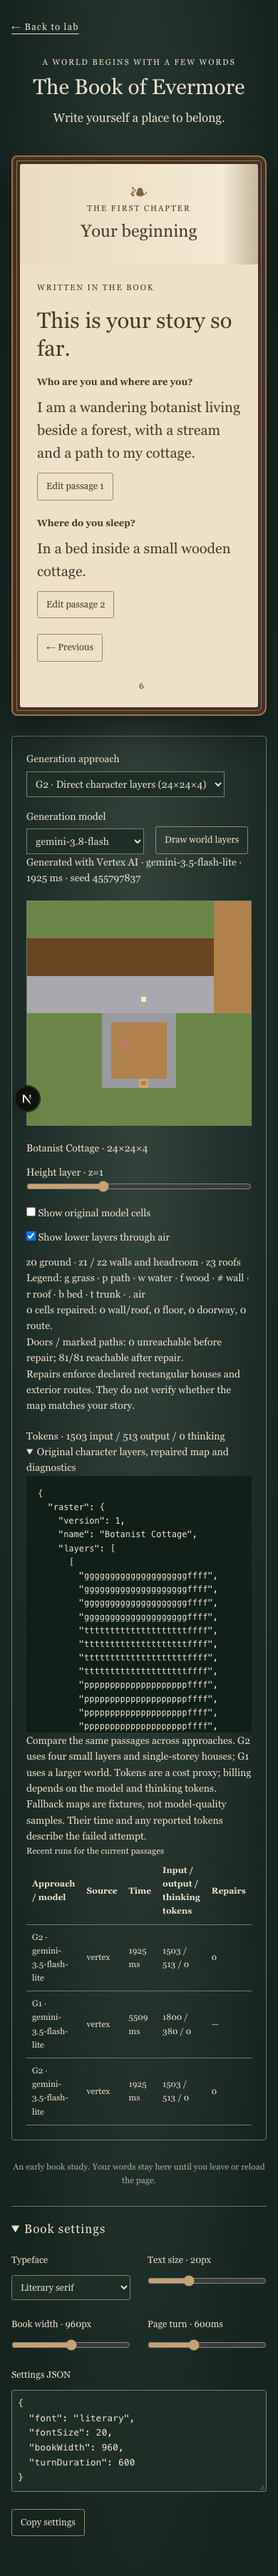
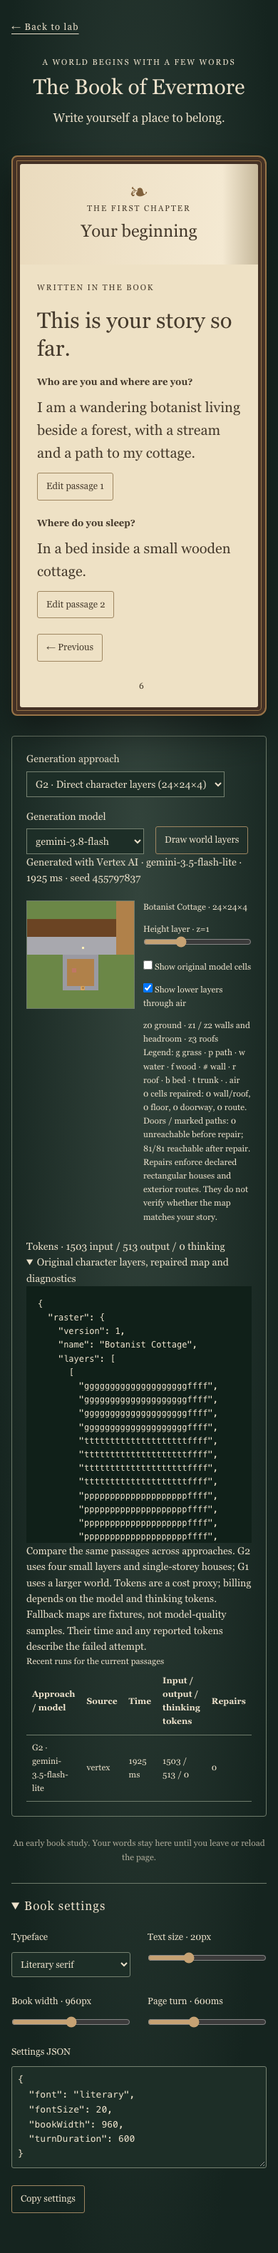
fix(lab): keep G2 map controls visible on mobile (evermore-1fo.8)
Self-review found a strict boolean lint failure in the run history and a mobile layout that put the map controls below the result. Check the optional fallback reason explicitly and keep the sticky map beside its controls at both viewport sizes.

Add a headless production browser check that replays measured G1/G2 fixtures, verifies layer extremes, compositing, simultaneous map/control visibility during scrolling, result invalidation and history, and updates review screenshots without paid model calls.

Install, typecheck, lint, build and the browser check pass. The full suite fails twice in the unchanged object-generator test because concurrent requests arrive in reverse seed order; track that separate gate blocker in evermore-k0f0y.

Changed region(s): [[0.0308, 0.0, 0.9846, 0.9924]]

diff --git a/apps/www/app/lab/book/book-experiment.tsx b/apps/www/app/lab/book/book-experiment.tsx
@@ -162,7 +162,7 @@ export default function BookExperiment() {
         </details>
         <p>Compare the same passages across approaches. G2 uses four small layers and single-storey houses; G1 uses a larger world. Tokens are a cost proxy; billing depends on the model and thinking tokens. Fallback maps are fixtures, not model-quality samples. Their time and any reported tokens describe the failed attempt.</p>
         {history.length > 0 && <div className={styles.comparison}><table><caption>Recent runs for the current passages</caption><thead><tr><th>Approach / model</th><th>Source</th><th>Time</th><th>Input / output / thinking tokens</th><th>Repairs</th></tr></thead><tbody>
-          {history.filter(run => run.answers === JSON.stringify(answers)).map((run, index) => <tr key={index}><td>{run.strategy.toUpperCase()} · {run.model}</td><td>{run.source}{run.fallbackReason ? ` (${run.fallbackReason})` : ""}</td><td>{run.durationMs} ms</td><td>{run.inputTokens ?? "—"} / {run.outputTokens ?? "—"} / {run.thinkingTokens ?? "—"}</td><td>{run.repaired ?? "—"}</td></tr>)}
+          {history.filter(run => run.answers === JSON.stringify(answers)).map((run, index) => <tr key={index}><td>{run.strategy.toUpperCase()} · {run.model}</td><td>{run.source}{run.fallbackReason !== undefined ? ` (${run.fallbackReason})` : ""}</td><td>{run.durationMs} ms</td><td>{run.inputTokens ?? "—"} / {run.outputTokens ?? "—"} / {run.thinkingTokens ?? "—"}</td><td>{run.repaired ?? "—"}</td></tr>)}
         </tbody></table></div>}
       </section>
       <p className={styles.footnote}>An early book study. Your words stay here until you leave or reload the page.</p>

diff --git a/apps/www/app/lab/book/book.module.css b/apps/www/app/lab/book/book.module.css
@@ -72,11 +72,11 @@
 .fallback { color: #eacb96; }
 .debug pre { max-height: 360px; overflow: auto; padding: 16px; background: #102019; font: 12px/1.6 monospace; white-space: pre-wrap; overflow-wrap: anywhere; }
 .mapPreview { display: grid; grid-template-columns: minmax(0, 1fr) minmax(0, 1fr); align-items: start; gap: 20px; margin: 20px 0; }
-.mapPreview canvas { width: 100%; image-rendering: pixelated; border: 1px solid #6f7c6b; }
+.mapPreview canvas { position: sticky; top: 16px; width: 100%; image-rendering: pixelated; border: 1px solid #6f7c6b; }
 .mapPreview label { display: block; margin: 12px 0; }
 .mapPreview input[type="range"] { width: 100%; accent-color: #c6a273; }
 .comparison { overflow-x: auto; }
 .comparison table { width: 100%; border-collapse: collapse; text-align: left; font-size: 12px; }
 .comparison caption { text-align: left; }
 .comparison :is(th, td) { padding: 8px; border-bottom: 1px solid #6f7c6b; }
-@media (max-width: 700px) { .mapPreview { grid-template-columns: 1fr; } }
+@media (max-width: 700px) { .mapPreview { gap: 12px; font-size: 12px; } }

diff --git a/docs/lab/book.md b/docs/lab/book.md
@@ -66,3 +66,7 @@ Kosten: Auf demselben Flash-Lite-Modell braucht G2 hier 16,5% weniger Input-, ab
 Reviewbilder: [G2 mit Reglern und Rohdaten](screenshots/book-g2-controls.png), [Mobil, 390px](screenshots/book-g2-mobile.png). Sie spielen die gespeicherte gültige Flash-Lite-Antwort wieder ab. Worauf achten: Ebenenregler, Original/Reparaturvergleich, klare Kennzeichnung des Fallbacks und das Missverhältnis zwischen formaler Konsistenz und visueller Qualität. Offene Frage: Lohnt sich Flash MEDIUM angesichts der längeren Dauer, oder ist die semantische G1-Spezifikation mit prozeduraler Umsetzung für grössere Welten geeigneter?
 
 Validierung: Parser-/Compiler-Tests für Materialzellen, unveränderte Rohdaten, geschlossene Wände, Bodenlöcher, blockierte Türen, alle vier Türseiten, Wasserbarrieren und fehlerhafte Raster. API-Tests für beide Providerformate, G2-Defaults, Reparaturen, Trunkierung mit Tokenzahlen und Deadline/Fallback. Headless Chromium prüft Strategie/Query, beide Passagen, Ebenen/Original/Durchsicht, Ergebnisverwerfung beim Strategiewechsel, Vergleichshistorie, mobile Breite und Browserfehler.
+
+Self-review-Nachtrag: Die mobile Karte und die Ebenenregler stehen nun nebeneinander; die Karte bleibt beim Scrollen innerhalb der Vorschau sichtbar. `node scripts/check-book-g2.mjs` prüft nach `pnpm build` den Produktionsserver headless mit gespeicherten Antworten, bei 1440px und 390px, ohne bezahlte Modellaufrufe. Geprüft werden G2-Query/Default, beide Passagen, sichtbare Karte neben dem Regler, Ebenen 0/3, Original/Durchsicht, Ergebnisverwerfung, G1/G2-Historie, mobile Breite und Browserfehler; die Reviewbilder wurden dabei aktualisiert.
+
+Installation, Typecheck, Lint und Build sind grün (lokal Node 23.6 statt Node 22). Der vollständige Testlauf scheitert zweimal am unveränderten Object-Generator-Test: Er erwartet Seed 42 im ersten parallelen Vertex-Aufruf, der tatsächlich Seed 43 enthält. Folge-Bead `evermore-k0f0y` erfasst die reihenfolgeunabhängige Prüfung; bis zur Behebung bleibt das Formula-Test-Gate offen.
